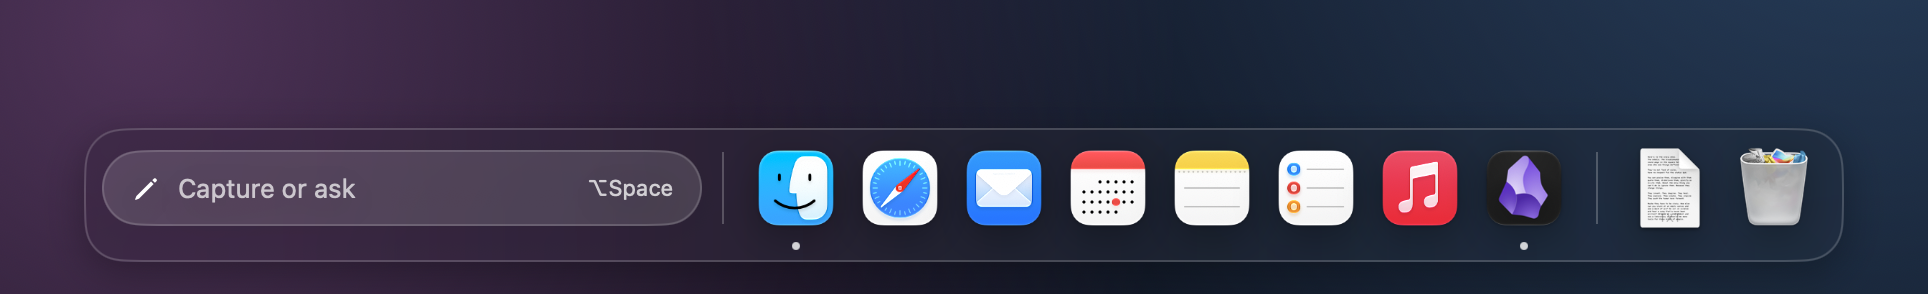
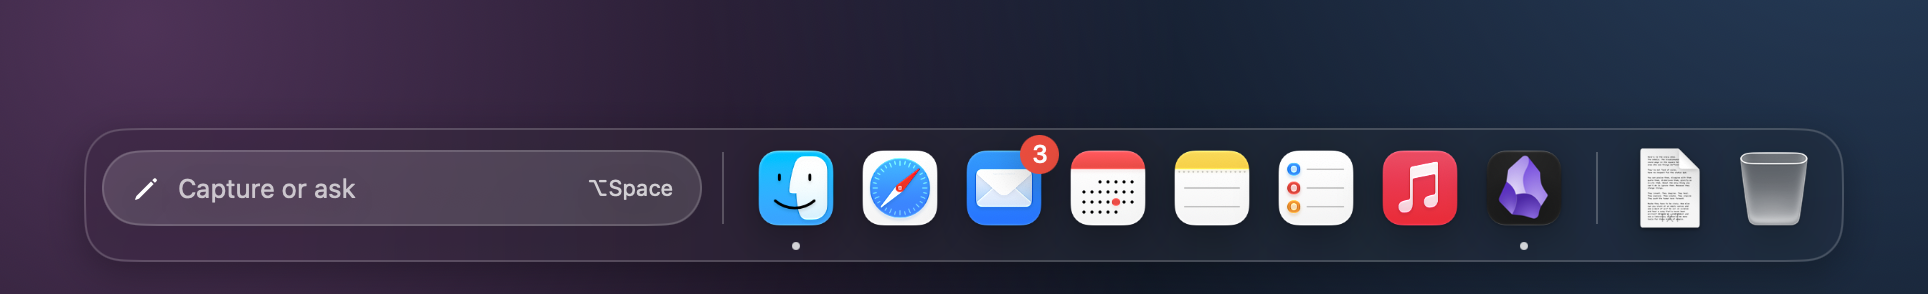
feat(dock): app badges and a crash-safe macOS Dock restore (#8)
- Show each running app's Dock badge, read from Launch Services every 2s.
- Restore the macOS Dock settings if Jarvis crashes or is killed, via a
  guard process waiting on a pipe that runs `Jarvis --restore-system-dock`.
- Bind meeting-card lines by id so ⌘⏎ mid-edit can't index past the end.

Changed region(s): [[0.9025, 0.4898, 0.9336, 0.7347], [0.529, 0.4592, 0.5602, 0.6122]]

diff --git a/dock/Sources/JarvisDock/DockView.swift b/dock/Sources/JarvisDock/DockView.swift
@@ -17,6 +17,8 @@ extension Color {
     /// Dark enough for white text on it (about 4.8:1).
     static let waiting = Color(red: 0.69, green: 0.37, blue: 0.03)
     static let failed = Color(red: 1, green: 0.27, blue: 0.23)
+    /// The macOS Dock's badge red.
+    static let badge = Color(red: 1, green: 0.23, blue: 0.19)
 }
 
 /// Every button on the glass: brighter under the pointer (a white button, a touch darker),
@@ -236,7 +238,7 @@ struct DockView: View {
         // No spacing: each tile pads itself, so there's no gap between icons that misses.
         HStack(spacing: 0) {
             ForEach(apps) { app in
-                AppTile(app: app, size: iconSize, bounce: app.id == "md.obsidian" ? model.bounce : 0, closes: app.id == "downloads" && shelf.stackOpen) {
+                AppTile(app: app, size: iconSize, badge: shelf.badges[app.id], bounce: app.id == "md.obsidian" ? model.bounce : 0, closes: app.id == "downloads" && shelf.stackOpen) {
                     if app.id == "downloads" { openStack() } else { shelf.open(app) }
                 }
                 // The icon's own menu, like the macOS Dock, instead of Jarvis's.
@@ -868,15 +870,24 @@ private struct MeetingCard: View {
     }
 
     private func toggleFocused() {
-        guard let index = model.lines.firstIndex(where: { $0.id == focused }) else { return }
-        withAnimation(spring) { model.lines[index].included.toggle() }
+        guard let focused else { return }
+        withAnimation(spring) { model.updateLine(focused) { $0.included.toggle() } }
+    }
+
+    /// Bound by the line's id (see `updateLine`), never by its index in the prompt.
+    private func text(of line: DraftLine) -> Binding<String> {
+        Binding {
+            model.lines.first { $0.id == line.id }?.text ?? line.text
+        } set: { text in
+            model.updateLine(line.id) { $0.text = text }
+        }
     }
 
     private var rows: some View {
         VStack(alignment: .leading, spacing: 0) {
-            ForEach(Array($model.lines.enumerated()), id: \.element.id) { index, $line in
+            ForEach(Array(model.lines.enumerated()), id: \.element.id) { index, line in
                 HStack(spacing: 10) {
-                    Button { withAnimation(spring) { line.included.toggle() } } label: {
+                    Button { withAnimation(spring) { model.updateLine(line.id) { $0.included.toggle() } } } label: {
                         // Square, like a macOS checkbox; the round check means "saved" elsewhere.
                         Image(systemName: line.included ? "checkmark.square.fill" : "square")
                             .font(.system(size: 16))
@@ -889,11 +900,11 @@ private struct MeetingCard: View {
                     .accessibilityAddTraits(.isToggle)
                     // Long lines wrap so you can read them. ⏎ moves down the lines, and on the
                     // last one adds another; ⌘⏎ saves.
-                    TextField(line.kind == .todo ? "Todo" : "Decision", text: $line.text, prompt: Text(line.kind == .todo ? "New todo" : "New decision"), axis: .vertical)
+                    TextField(line.kind == .todo ? "Todo" : "Decision", text: text(of: line), prompt: Text(line.kind == .todo ? "New todo" : "New decision"), axis: .vertical)
                         .lineLimit(1...3)
                         .textFieldStyle(.plain)
                         .focused($focused, equals: line.id)
-                        .onSubmit { next(after: index) }
+                        .onSubmit { next(after: line.id) }
                         .foregroundStyle(Color.white.opacity(line.included ? 1 : Self.leftOut))
                         .accessibilityHint(line.alreadyTracked ? "Already on your list. Goes to the \(line.destination) if included" : "Goes to the \(line.destination)")
                     // ⌥⏎ sits on the line it will include or leave out, after its label, the way ⏎
@@ -913,7 +924,8 @@ private struct MeetingCard: View {
         }
     }
 
-    private func next(after index: Int) {
+    private func next(after id: DraftLine.ID) {
+        guard let index = model.lines.firstIndex(where: { $0.id == id }) else { return }
         if model.lines.indices.contains(index + 1) {
             focused = model.lines[index + 1].id
         } else if !model.lines[index].text.trimmingCharacters(in: .whitespaces).isEmpty {
@@ -998,6 +1010,7 @@ private struct AppTile: View {
     let app: DockApp
     /// The icon's side; smaller when the bar would otherwise run off the display.
     var size = AppTile.icon
+    var badge: String?
     let bounce: Int
     /// The Downloads tile while its fan is open: a button that closes it, as in the macOS Dock.
     var closes = false
@@ -1020,6 +1033,13 @@ private struct AppTile: View {
         VStack(spacing: 4) {
             icon
                 .frame(width: size, height: size)
+                .overlay(alignment: .topTrailing) {
+                    if let badge {
+                        Badge(label: badge, size: size)
+                            .transition(reduceMotion ? .opacity : .scale.combined(with: .opacity))
+                    }
+                }
+                .animation(spring, value: badge)
                 .scaleEffect(hovering ? 1.16 : 1, anchor: .bottom)
                 .offset(y: (hovering ? -5 : 0) + lift)
                 // The name shows straight away, above the magnified icon, like the macOS Dock's.
@@ -1058,7 +1078,7 @@ private struct AppTile: View {
         // One button per icon for VoiceOver, named like the macOS Dock's.
         .accessibilityElement(children: .ignore)
         .accessibilityLabel(closes ? "Close \(app.name)" : app.name)
-        .accessibilityValue(app.running == nil ? "" : "running")
+        .accessibilityValue([app.running == nil ? nil : "running", badge].compactMap(\.self).joined(separator: ", "))
         .accessibilityAddTraits(.isButton)
         .accessibilityAction { action() }
     }
@@ -1080,6 +1100,25 @@ private struct AppTile: View {
                 .padding(4)
         } else {
             Image(nsImage: app.icon).resizable()
+        }
+    }
+
+    /// The app's own count or mark, over the icon's corner like the macOS Dock's, and magnified
+    /// with it.
+    private struct Badge: View {
+        let label: String
+        let size: CGFloat
+
+        var body: some View {
+            Text(label)
+                .font(.system(size: size * 0.27, weight: .medium))
+                .foregroundStyle(.white)
+                .fixedSize()
+                .padding(.horizontal, size * 0.1)
+                .frame(minWidth: size * 0.42, minHeight: size * 0.42)
+                .background(Capsule().fill(Color.badge))
+                .offset(x: size * 0.1, y: -size * 0.08)
+                .allowsHitTesting(false)
         }
     }
 

diff --git a/dock/Sources/JarvisDock/AppShelf.swift b/dock/Sources/JarvisDock/AppShelf.swift
@@ -25,11 +25,14 @@ final class AppShelf {
     /// What "Hidden Apps" on the Dock's own menu lists, running or not.
     private(set) var hiddenApps: [DockApp] = []
     private(set) var trashFull: Bool?
+    /// The badge each running app has set on its Dock icon ("2", "•"), by app id. Screenshots
+    /// stage their own, since the shelf doesn't read real apps' badges for them.
+    var badges: [String: String] = [:]
     /// The Downloads fan is open, so its tile shows the close button.
     var stackOpen = false
     @ObservationIgnored private var config = AppShelf.loadConfig()
     @ObservationIgnored private var observers: [NSObjectProtocol] = []
-    @ObservationIgnored private var trashTimer: Timer?
+    @ObservationIgnored private var pollTimer: Timer?
     @ObservationIgnored private var newestDownload: URL?
     @ObservationIgnored private var downloadsWatcher: DispatchSourceFileSystemObject?
     @ObservationIgnored private let trash = try? FileManager.default.url(for: .trashDirectory, in: .userDomainMask, appropriateFor: nil, create: false)
@@ -46,9 +49,12 @@ final class AppShelf {
         refreshTrash()
         watchDownloads()
         // Without Full Disk Access the Trash can't be watched, only checked, and a check is one
-        // stat call. The icon redraws only when it goes between empty and full.
-        trashTimer = Timer.scheduledTimer(withTimeInterval: 2, repeats: true) { [weak self] _ in
-            MainActor.assumeIsolated { self?.refreshTrash() }
+        // stat call. Badges can't be watched either. Icons redraw only when something changed.
+        pollTimer = Timer.scheduledTimer(withTimeInterval: 2, repeats: true) { [weak self] _ in
+            MainActor.assumeIsolated {
+                self?.refreshTrash()
+                self?.refreshBadges()
+            }
         }
         let center = NSWorkspace.shared.notificationCenter
         for name in [NSWorkspace.didLaunchApplicationNotification, NSWorkspace.didTerminateApplicationNotification] {
@@ -131,6 +137,16 @@ final class AppShelf {
                 )
             }
         apps = config.pinned.compactMap(installed) + others
+        refreshBadges()
+    }
+
+    private func refreshBadges() {
+        guard showsRunning else { return }
+        var badges: [String: String] = [:]
+        for app in apps {
+            if let running = app.running, let label = DockBadge.label(of: running) { badges[app.id] = label }
+        }
+        if badges != self.badges { self.badges = badges }
     }
 
     static let downloadsFolder = Jarvis.downloadsDir
@@ -260,5 +276,31 @@ final class AppShelf {
         guard let data = try? encoder.encode(config) else { return }
         try? FileManager.default.createDirectory(at: configURL.deletingLastPathComponent(), withIntermediateDirectories: true)
         try? data.write(to: configURL, options: .atomic)
+    }
+}
+
+/// The label an app puts on its Dock icon (`NSApp.dockTile.badgeLabel`). Launch Services keeps it
+/// as the app's StatusLabel, which any process may read with no permission, but only through
+/// private calls. Each is looked up at runtime, so if macOS drops one the Dock just shows no badges.
+private enum DockBadge {
+    private typealias CreateASN = @convention(c) (CFAllocator?, pid_t) -> Unmanaged<CFTypeRef>?
+    private typealias CopyItem = @convention(c) (Int32, CFTypeRef, CFString) -> Unmanaged<CFTypeRef>?
+    private static let createASN = symbol("_LSASNCreateWithPid", as: CreateASN.self)
+    private static let copyItem = symbol("_LSCopyApplicationInformationItem", as: CopyItem.self)
+    /// kLSDefaultSessionID: the logged-in user's session.
+    private static let session: Int32 = -2
+
+    /// RTLD_DEFAULT, which Swift doesn't import: search every loaded image.
+    private static func symbol<T>(_ name: String, as type: T.Type) -> T? {
+        dlsym(UnsafeMutableRawPointer(bitPattern: -2), name).map { unsafeBitCast($0, to: type) }
+    }
+
+    static func label(of app: NSRunningApplication) -> String? {
+        guard let createASN, let copyItem,
+              let asn = createASN(nil, app.processIdentifier)?.takeRetainedValue(),
+              let item = copyItem(session, asn, "StatusLabel" as CFString)?.takeRetainedValue(),
+              let label = (item as? NSDictionary)?["label"] as? String, !label.isEmpty
+        else { return nil }
+        return label
     }
 }

diff --git a/dock/Sources/JarvisDock/Preferences.swift b/dock/Sources/JarvisDock/Preferences.swift
@@ -62,6 +62,33 @@ enum SystemDock {
     static let queue = DispatchQueue(label: "jarvis.system-dock")
     private static let saved = "savedSystemDock"
     private static let hiddenDelay = 1000.0
+    /// `Jarvis --restore-system-dock` restores and exits, without starting the Dock.
+    static let restoreFlag = "--restore-system-dock"
+    /// The write end of the guard's pipe. Only Jarvis holds it, so it closes when Jarvis ends.
+    nonisolated(unsafe) private static var guardPipe: Pipe?
+
+    /// A crash skips applicationWillTerminate, which would leave the macOS Dock hidden with no
+    /// Jarvis in its place. So a shell waits on a pipe that closes however Jarvis ends (a crash,
+    /// SIGKILL, a normal quit), then runs `Jarvis --restore-system-dock`. After a normal quit
+    /// the settings are already restored, so that finds nothing saved and does nothing.
+    static func guardAgainstCrashes() {
+        guard let executable = Bundle.main.executablePath else { return }
+        let pipe = Pipe()
+        let shell = Process()
+        shell.executableURL = URL(filePath: "/bin/sh")
+        // Logout's SIGTERM goes to Jarvis, which restores for itself; the guard outlives it.
+        shell.arguments = ["-c", "trap '' HUP INT TERM; read -r _; exec \"$0\" \(restoreFlag)", executable]
+        shell.standardInput = pipe
+        shell.standardOutput = FileHandle.nullDevice
+        shell.standardError = FileHandle.nullDevice
+        do {
+            try shell.run()
+            try? pipe.fileHandleForReading.close()
+            guardPipe = pipe
+        } catch {
+            NSLog("Jarvis: couldn't start the macOS Dock guard: \(error)")
+        }
+    }
 
     static func replace() {
         let dock = UserDefaults(suiteName: "com.apple.dock")

diff --git a/dock/Sources/JarvisDock/AppDelegate.swift b/dock/Sources/JarvisDock/AppDelegate.swift
@@ -33,10 +33,11 @@ final class AppDelegate: NSObject, NSApplicationDelegate {
         panel.show()
 
         if let scene = Screenshots.scene {
-            Task { await Screenshots(scene: scene, model: model, dock: panel, settings: settings).run() }
+            Task { await Screenshots(scene: scene, model: model, shelf: shelf, dock: panel, settings: settings).run() }
             return
         }
         watcher.start()
+        SystemDock.guardAgainstCrashes()
         hotKey = HotKey(keyCode: UInt32(kVK_Space), modifiers: UInt32(optionKey)) { [weak panel] in
             panel?.focus()
         }

diff --git a/dock/Sources/JarvisDock/DockModel.swift b/dock/Sources/JarvisDock/DockModel.swift
@@ -531,6 +531,12 @@ final class DockModel {
         lines.append(.blank)
     }
 
+    /// By id, not index: ⌘⏎ mid-edit swaps in the next prompt's lines while the field is still
+    /// editing, and a stale field must find nothing to change rather than run off the end.
+    func updateLine(_ id: DraftLine.ID, _ change: (inout DraftLine) -> Void) {
+        if let index = lines.firstIndex(where: { $0.id == id }) { change(&lines[index]) }
+    }
+
     private var savedLines: [DraftLine] {
         lines.filter { $0.included && !$0.text.trimmingCharacters(in: .whitespaces).isEmpty }
     }

diff --git a/dock/Sources/JarvisDock/Screenshots.swift b/dock/Sources/JarvisDock/Screenshots.swift
@@ -23,6 +23,7 @@ struct Screenshots {
 
     let scene: String
     let model: DockModel
+    let shelf: AppShelf
     let dock: DockPanelController
     let settings: SettingsWindow
 
@@ -80,7 +81,7 @@ struct Screenshots {
     private func stage() async throws -> NSWindow? {
         switch scene {
         case "resting":
-            break
+            shelf.badges = ["com.apple.mail": "3"]
         case "hover-box":
             try hover("capture")
         case "hover-icon":

diff --git a/dock/Sources/JarvisDock/main.swift b/dock/Sources/JarvisDock/main.swift
@@ -1,5 +1,11 @@
 import AppKit
 
+// The macOS Dock guard's way back in, after Jarvis ended without restoring it.
+if CommandLine.arguments.dropFirst().first == SystemDock.restoreFlag {
+    SystemDock.restore()
+    exit(0)
+}
+
 MainActor.assumeIsolated {
     Screenshots.requireFixtures()
     let app = NSApplication.shared

diff --git a/README.md b/README.md
@@ -8,7 +8,7 @@ The point is to stop losing things: the "I need to speak to Sam about that" from
 
 ## What it does
 
-- **A Dock.** Your running and pinned apps, Downloads and the Trash, on frosted glass, where the icon under the pointer grows and shows its name, and the launch bounce. Downloads works like the macOS Dock's stack: its icon is your newest file, and clicking it fans out your newest files. The Trash shows when it's full and empties from its right-click menu. Like the macOS Dock it lives on one display at a time and moves to whichever display you push the pointer against the bottom of. It auto-hides and can replace the macOS Dock while Jarvis runs.
+- **A Dock.** Your running and pinned apps, Downloads and the Trash, on frosted glass, where the icon under the pointer grows and shows its name, the launch bounce, and the red badge an app sets for its unread count. Badges come from Launch Services, checked every 2 seconds, so they need no permission. Downloads works like the macOS Dock's stack: its icon is your newest file, and clicking it fans out your newest files. The Trash shows when it's full and empties from its right-click menu. Like the macOS Dock it lives on one display at a time and moves to whichever display you push the pointer against the bottom of. It auto-hides and can replace the macOS Dock while Jarvis runs.
 - **A capture box.** ⌥Space opens it. As you type, matching notes appear above it. Enter sends the text to Claude, ⌘Enter drops it in your Inbox as is, and ↑↓ picks a note to open in Obsidian.
 - **Live progress.** While Claude works, the box shows what it's doing ("Reading today's note", "Searching “launch plan”", "Using work-log").
 - **Answers in a bubble.** The answer rises out of the box in a speech bubble: a headline, a few lines, and links to the notes involved. Answers too big for the bubble offer the note that holds the rest (Open full answer), rather than pulling Obsidian in front of whatever you're typing in. Anything Claude changed can be undone from the bubble.
@@ -168,7 +168,7 @@ Right-click the Dock (anywhere but an icon), or open Jarvis again from Finder, f
 | Setting | Does |
 |---|---|
 | Automatically hide and show Jarvis | Slides away until you push the pointer against the bottom edge. Off keeps it up. Starts out matching the macOS Dock. |
-| Replace the macOS Dock | While Jarvis runs, the macOS Dock gets auto-hide with a 1000-second reveal delay. Your original settings are saved and restored when Jarvis quits, including on `kill` and logout. |
+| Replace the macOS Dock | While Jarvis runs, the macOS Dock gets auto-hide with a 1000-second reveal delay. Your original settings are saved and restored when Jarvis quits, including on `kill`, logout and a crash. |
 | Open at login | On by default, since Jarvis also runs the meeting watcher. |
 
 ## Safety
@@ -242,7 +242,7 @@ scripts/store.sh                   # App Store images from them, into assets/sto
 | `dock/Sources/JarvisDock/DockView.swift` | All Dock UI |
 | `dock/Sources/JarvisDock/DockPanel.swift` | The non-activating panel, placement and auto-hide |
 | `dock/Sources/JarvisDock/Jarvis.swift` | CLI bridge and the JSON types |
-| `dock/Sources/JarvisDock/AppShelf.swift` | Pinned and running apps, Downloads and the Trash |
+| `dock/Sources/JarvisDock/AppShelf.swift` | Pinned and running apps, their badges, Downloads and the Trash |
 | `dock/Sources/JarvisDock/DownloadsStack.swift` | The Downloads fan |
 | `dock/Sources/JarvisDock/Preferences.swift` | Settings, replacing the macOS Dock, open at login |
 | `dock/Sources/JarvisDock/Watcher.swift` | Runs `jarvis watch` while the app is open |
